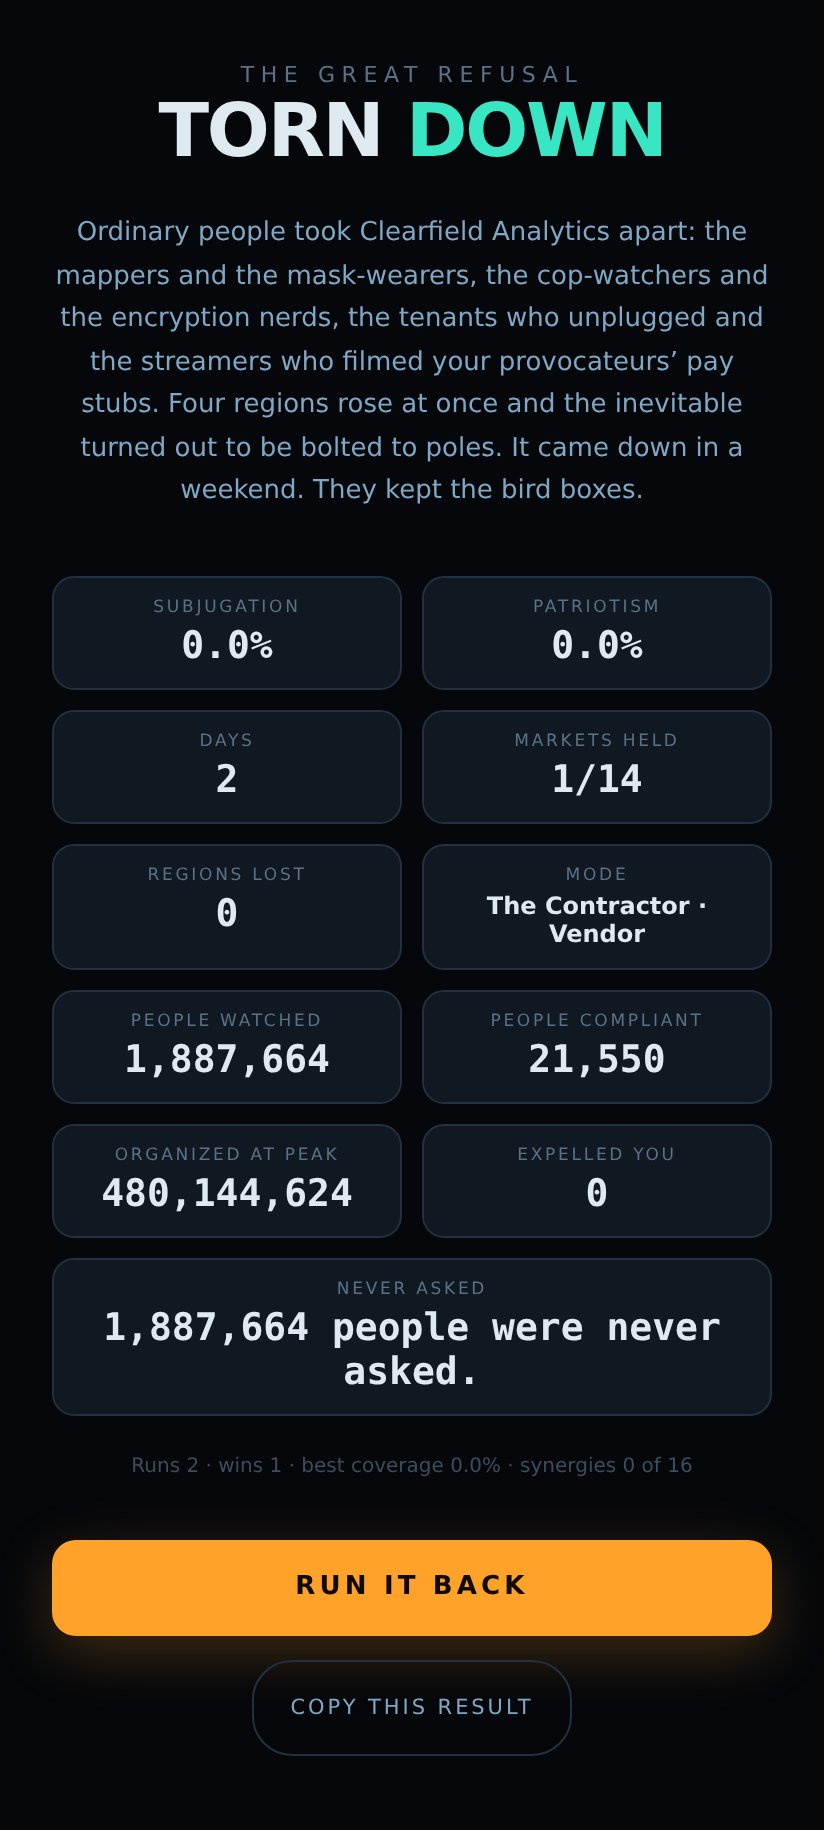
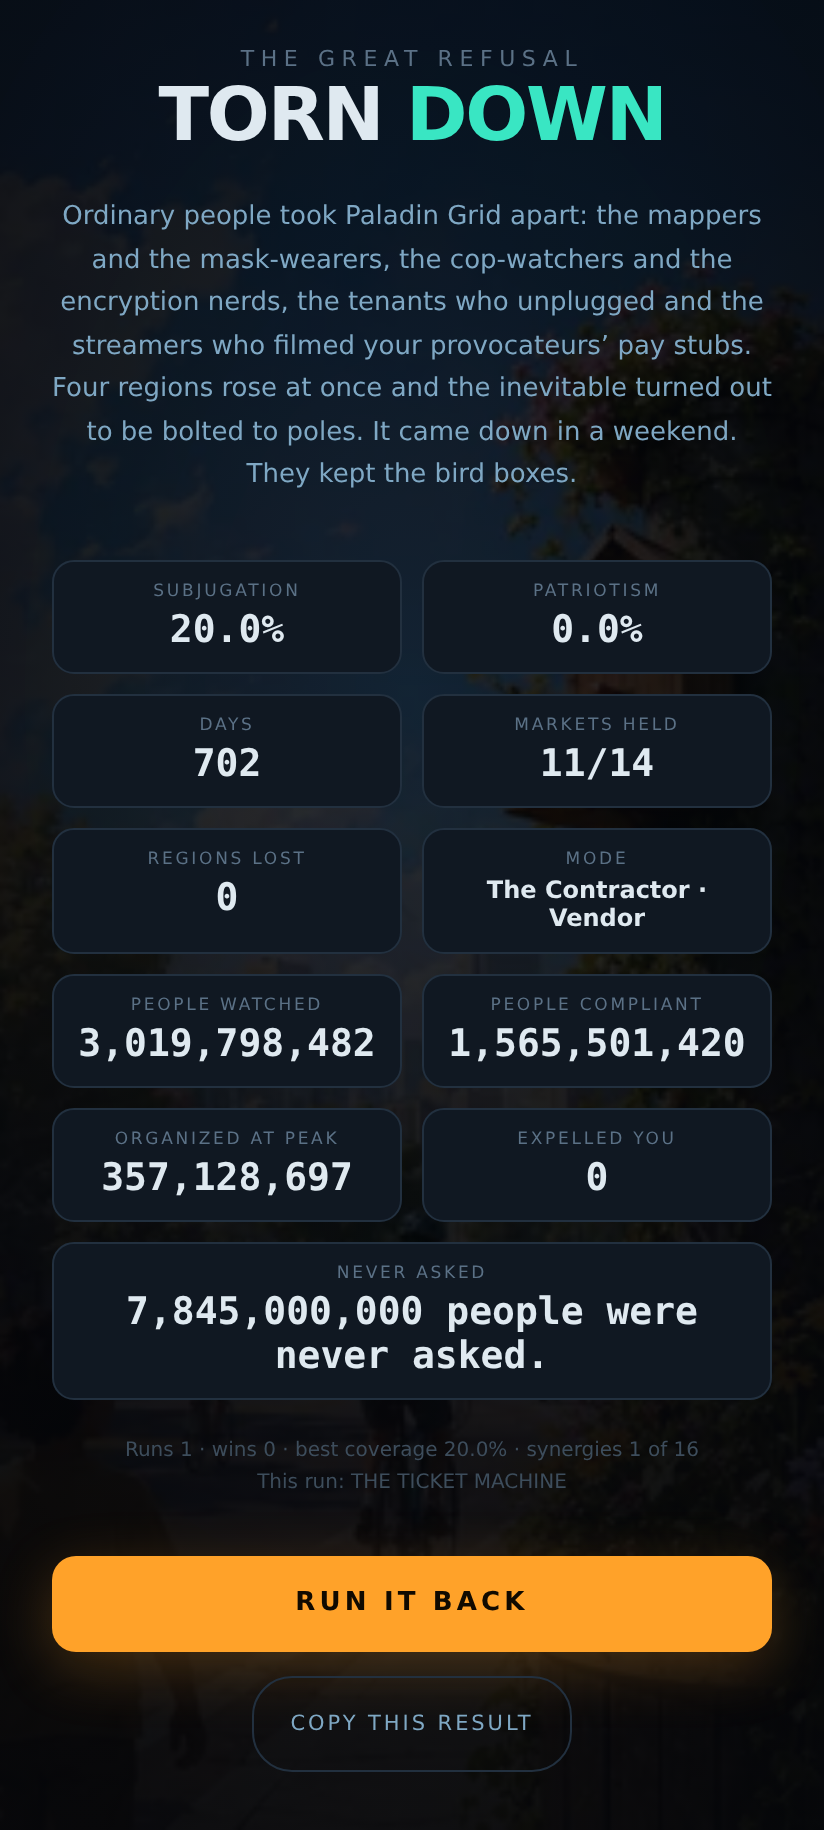
FTW: the refusal ending gets its picture, and it is the only daylight in the game
Stephen delivered the image this ending was waiting for: a street in the sun,
ordinary people out walking, and the camera pole grown over and turned into a
bird box. It sits under "They kept the bird boxes", which is the last line of
that ending's text.

Every other screen in this game is a night city under sodium light. This one is
not, and that contrast is the whole reason the ending works.

⛔ It needed different handling from the other two backdrops. My first pass
treated a bright picture the way I treat dark ones and faded it back to 22%,
which turned the one daylight image in the game into another dark smudge, the
exact opposite of the point. Fading is the wrong tool: the image is held at 62%
and DARKENED instead, so the sky stays blue and the trees stay green at a value
the pale end-screen copy can sit on. Looked at both versions before choosing.

All three endings now carry art, 2.5 MB of source down to 71 KB.

diff --git a/satellites/flock-the-world/index.html b/satellites/flock-the-world/index.html
@@ -29,6 +29,16 @@ button{font-family:inherit;color:inherit;background:none;border:none;cursor:poin
 .screen[style*="--shot"]::after{content:'';position:absolute;inset:0;z-index:0;pointer-events:none;
   background:radial-gradient(120% 90% at 50% 40%,#05070b33 0%,#05070bd0 62%,#05070bf2 100%)}
 .screen[style*="--shot"]>*{position:relative;z-index:1}
+/* the refusal backdrop is the one daylight image in the game. A bright picture
+   needs holding back harder than a dark one or the pale end-screen copy stops
+   being readable over it. Measured on the real screen, not guessed. */
+/* ⛔ Do NOT solve a bright backdrop by fading it out. At opacity .22 this became
+   a dark smudge and the one daylight image in the game read as another night
+   screen, which is the exact opposite of what this ending is for. Keep it
+   present and darken the IMAGE instead, so the sky stays blue and the trees stay
+   green at a value pale text can sit on. */
+#end.daylight::before{opacity:.62;filter:brightness(.42) saturate(1.05)}
+#end.daylight::after{background:radial-gradient(120% 90% at 50% 38%,#05070b4d 0%,#05070bc4 55%,#05070bee 100%)}
 .screen.on{display:flex}
 
 /* ---------- menu ---------- */
@@ -1421,14 +1431,17 @@ function finish(won,why){
    <div class="sg"><div class="k">Organized at peak</div><div class="v mono">${fmtPeople(S.popPeakOrg||0)}</div></div>
    <div class="sg"><div class="k">Expelled you</div><div class="v mono">${fmtPeople(S.popExpelled)}</div></div>
    <div class="sg" style="grid-column:1/-1"><div class="k">Never asked</div><div class="v mono">${fmtPeople(WORLD_POP*PEOPLE)} people were never asked.</div></div>`;
-  /* ⛔ REFUSAL has no backdrop on purpose. The pack asked for a daylight street
-     where the camera poles have become bird boxes, and that is the one image in
-     sheet 7 that was never generated. Every candidate in the drop is a night
-     city, a control room or a corporate lobby, and none of them says "ordinary
-     people won". A wrong picture would undercut the best ending in the game, so
-     it stays clean until the right one exists. */
+  /* Refusal is the ONLY daylight image in the game, and that is the point: the
+     whole rest of it is a night city under sodium light. Stephen delivered it
+     2026-08-23 after this ending sat deliberately bare rather than take a wrong
+     picture. A street in the sun, ordinary people, and the camera pole grown
+     over and turned into a bird box. */
   $('end').style.setProperty('--shot',
-    won?'url(art/bg/bg_end_win.webp)':why==='refusal'?'':'url(art/bg/bg_end_coalition.webp)');
+    won?'url(art/bg/bg_end_win.webp)'
+      :why==='refusal'?'url(art/bg/bg_end_refusal.webp)'
+      :'url(art/bg/bg_end_coalition.webp)');
+  /* it is a bright image behind pale text, so it gets its own dimming */
+  $('end').classList.toggle('daylight',!won&&why==='refusal');
   if(won){
     $('endKick').textContent='Contract fulfilled';
     $('endTitle').innerHTML='TOTAL <span style="color:var(--sodium)">COVERAGE</span>';

diff --git a/portal/index.html b/portal/index.html
@@ -1043,7 +1043,7 @@ var FEATURED = [
   // (his call whether that distance from Sky Wolf is intentional). Mature
   // satire, no gore: beta while he decides shelf placement. Source of truth:
   // satellites/flock-the-world (HANDOFF.md inside; sim.js balance harness).
-  {nm:"Flock the World", ds:"A satire sim where you play the surveillance vendor and the whole world learns to fight back.", cat:"puzzle", url:"/satellites/flock-the-world/?v=20260823n", ic:"🛰", thumb:"/portal-assets/thumbs/flock-the-world.png", fresh:true},
+  {nm:"Flock the World", ds:"A satire sim where you play the surveillance vendor and the whole world learns to fight back.", cat:"puzzle", url:"/satellites/flock-the-world/?v=20260823o", ic:"🛰", thumb:"/portal-assets/thumbs/flock-the-world.png", fresh:true},
   // Bandit's Box (Aug 16): a quiet fidget box, 21 toys on a continuous friction
   // engine. Deliberately has no earns, no unlocks and no tally by default — the
   // sensory research this was built from names coercive gamification as harmful,

diff --git a/art-asset-lists/ART-LEDGER.md b/art-asset-lists/ART-LEDGER.md
@@ -15,6 +15,7 @@
 
 | Game | Pack / style | Sheets | Prompt pack | Listed | Notes |
 |---|---|---|---|---|---|
+| Flock the World (refusal ending) | *Procurement Brochure*, but daylight | 1 image | Stephen, direct, 2026-08-23; raw kept at `satellites/flock-the-world/art-drop/Assets/refusal.png` | see commit | 2026-08-23 | **WIRED.** A sunny street, ordinary people, the camera pole grown over and turned into a bird box. Fills the one gap the pack had. It is the ONLY daylight image in the game, which is the point: everything else is a night city under sodium light. ⛔ It needed its own treatment: fading a bright picture back to 22% turned it into another dark smudge, so it is held at 62% with the IMAGE darkened instead, which keeps the sky blue and the trees green at a value pale text can sit on. |
 | Flock the World (drop 1, screens) | *Procurement Brochure* | menu backdrop + 2 of 3 end backdrops | same zip | see commits | 2026-08-23 | **WIRED.** Menu = `bg_menu` (6c, the pyramid over a lit city). Win = `bg_end_win` (6h, a night city with every street lit, the exact brief). Coalition = `bg_end_coalition` (6k, the corporate lobby, institutional, matches "dragged into a hearing room"). ⚠ **REFUSAL HAS NO BACKDROP ON PURPOSE.** Sheet 7 asked for a daylight street where the camera poles have become bird boxes, and that image was never generated. Every candidate in the drop is a night city, a control room or a corporate lobby; none of them says "ordinary people won". ⚖ **ART REQUEST: one daylight image for the refusal ending.** `bg_warroom` (6i) and 6j remain unused. |
 | Flock the World (drop 1, UI kit) | *Procurement Brochure* | 20 UI glyphs | same zip | see commits | 2026-08-23 | **WIRED, 19 of 20.** Six protest state chips, six region actions, six Ledger cell headers, and the two map bubbles preloaded into the canvas. `hq_marker` is cut but unplaced: the HQ is drawn as a radial glow rather than a marker, so there is nothing to swap. State chips are now built by one shared `stateChip()` used by the World cards, the map popover and the Ledger rows. |
 | Flock the World (drop 1, rest) | *Procurement Brochure* | 16 synergy badges, 20 UI icons, 8 cards, 16 cast/resistance, 9 backdrops, wordmark | same zip | see commit | 2026-08-23 | **CUT. Badges, cast and backdrops WIRED**; UI kit and cards cut and manifested but not yet placed. ⛔ Sheet 10 was transposed like sheet 2: klein/anchor swapped and the countermeasure order different from the prompt. Caught by cutting with positional names and reading each picture. ⛔ Packed sheets (badges, cards, portraits) fused into 3 blobs until the dilation was made grid aware: bucketing already rejoins fragments, so a grid sheet needs almost none. All art converted to WebP: 5.4 MB of PNG became 0.8 MB, backdrops 20.5 MB became 316 KB. |
